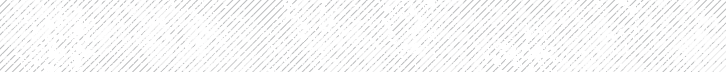
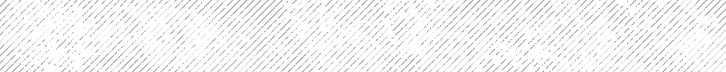
Update выделение и правки стиля

diff --git a/src/main/resources/static/css/styles.css b/src/main/resources/static/css/styles.css
@@ -190,9 +190,9 @@ ul {
   padding-left: 24px;
   position: sticky;
   background-color: var(--bg-main);
-  background-image: var(--bg-title-img);
+  background-image: var(--bg-title-img), var(--bg-img-main);
   background-position:top left;
-  background-repeat:no-repeat ;
+  background-repeat:no-repeat, repeat-x ;
   border-bottom: 1px solid var(--border);
 
   border-image-source: var(--border-title-img);
@@ -328,7 +328,7 @@ ul {
 }
 
 #right_block .header_block {
-  background-image: var(--bg-title-img-2);
+  background-image: var(--bg-title-img-2), var(--bg-img-main);
 }
 
 .block_information #right_block {
@@ -347,7 +347,7 @@ ul {
   left: 0px;
   right: 0px;
   bottom: 0;
-  background-image: var(--bg-row);
+  background-image: var(--bg-img-main);
   border-image-source: var(--border-top);
   border-image-slice: 1 1 1 fill;
   border-image-repeat: repeat repeat;
@@ -368,12 +368,12 @@ ul {
   align-items: center;
   height: 46px;
   color: var(--text-color);
-  background: var(--bg-fog);
+  /* background: var(--bg-fog); */
   border-right: 1px solid var(--border);
 }
 
 #right_block .header_block .header_sub_menu button.active {
-  background: var(--bg-fog-active);
+  background: var(--bg-img-main-2);
 }
 
 #right_block .header_block .header_sub_menu button .icon_action {
@@ -610,7 +610,7 @@ ul {
 .table_list_left_block .table_list tr.selected {
   background: var(--bg-main);
 
-  background-image: var(--bg-title-img-2);
+  background-image: var(--bg-img-main-2);
   background-position: top left;
   background-repeat: no-repeat;
 }
@@ -873,5 +873,6 @@ button {
   #right_block .header_block .header_sub_menu button {
     flex: 1 0;
     justify-content: center;
+    padding: 0px;
   }
 }

diff --git a/src/main/resources/static/css/dark.css b/src/main/resources/static/css/dark.css
@@ -14,7 +14,7 @@
   --primary-active: #3D3992;
 }
 
-/********* Logo *********/
+/********* IMG BG *********/
 :root {
   --border-img:url(/resources/assets/style/dark/border.png);
   --border-title-img:url(/resources/assets/style/dark/border_title.png);
@@ -22,9 +22,8 @@
   --border-bottom:url(/resources/assets/style/dark/border_bottom.png);
   --bg-title-img:url(/resources/assets/style/dark/bg_title.png);
   --bg-title-img-2:url(/resources/assets/style/dark/bg_title_2.png);
-  --bg-row:url(/resources/assets/style/dark/bg_row.png);
-  --bg-fog:url(/resources/assets/style/dark/bg_fog.png);
-  --bg-fog-active:url(/resources/assets/style/dark/bg_fog_active.png);
+  --bg-img-main:url(/resources/assets/style/dark/bg_main.png);
+  --bg-img-main-2:url(/resources/assets/style/dark/bg_main_2.png);
 }
 
 /********* Logo *********/
